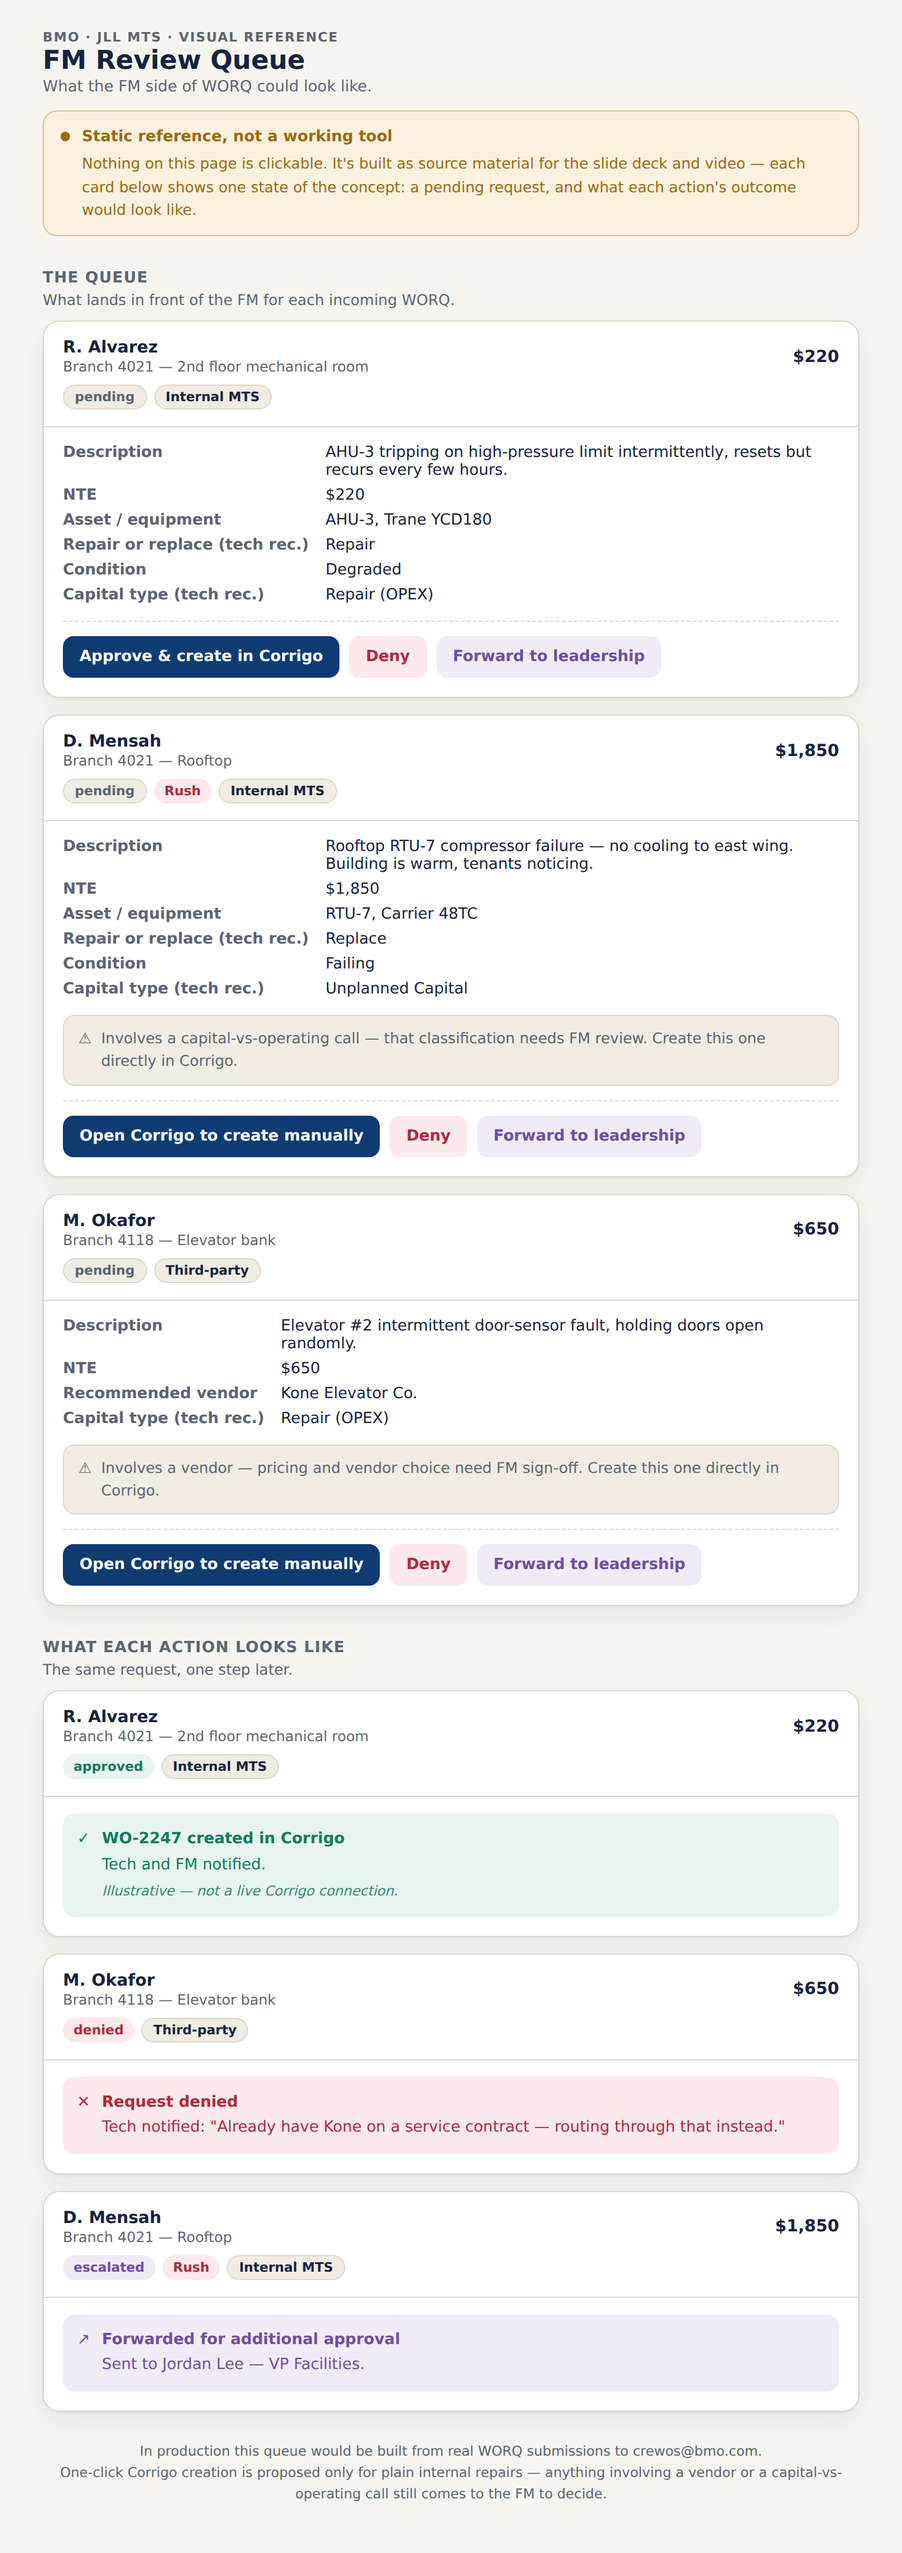
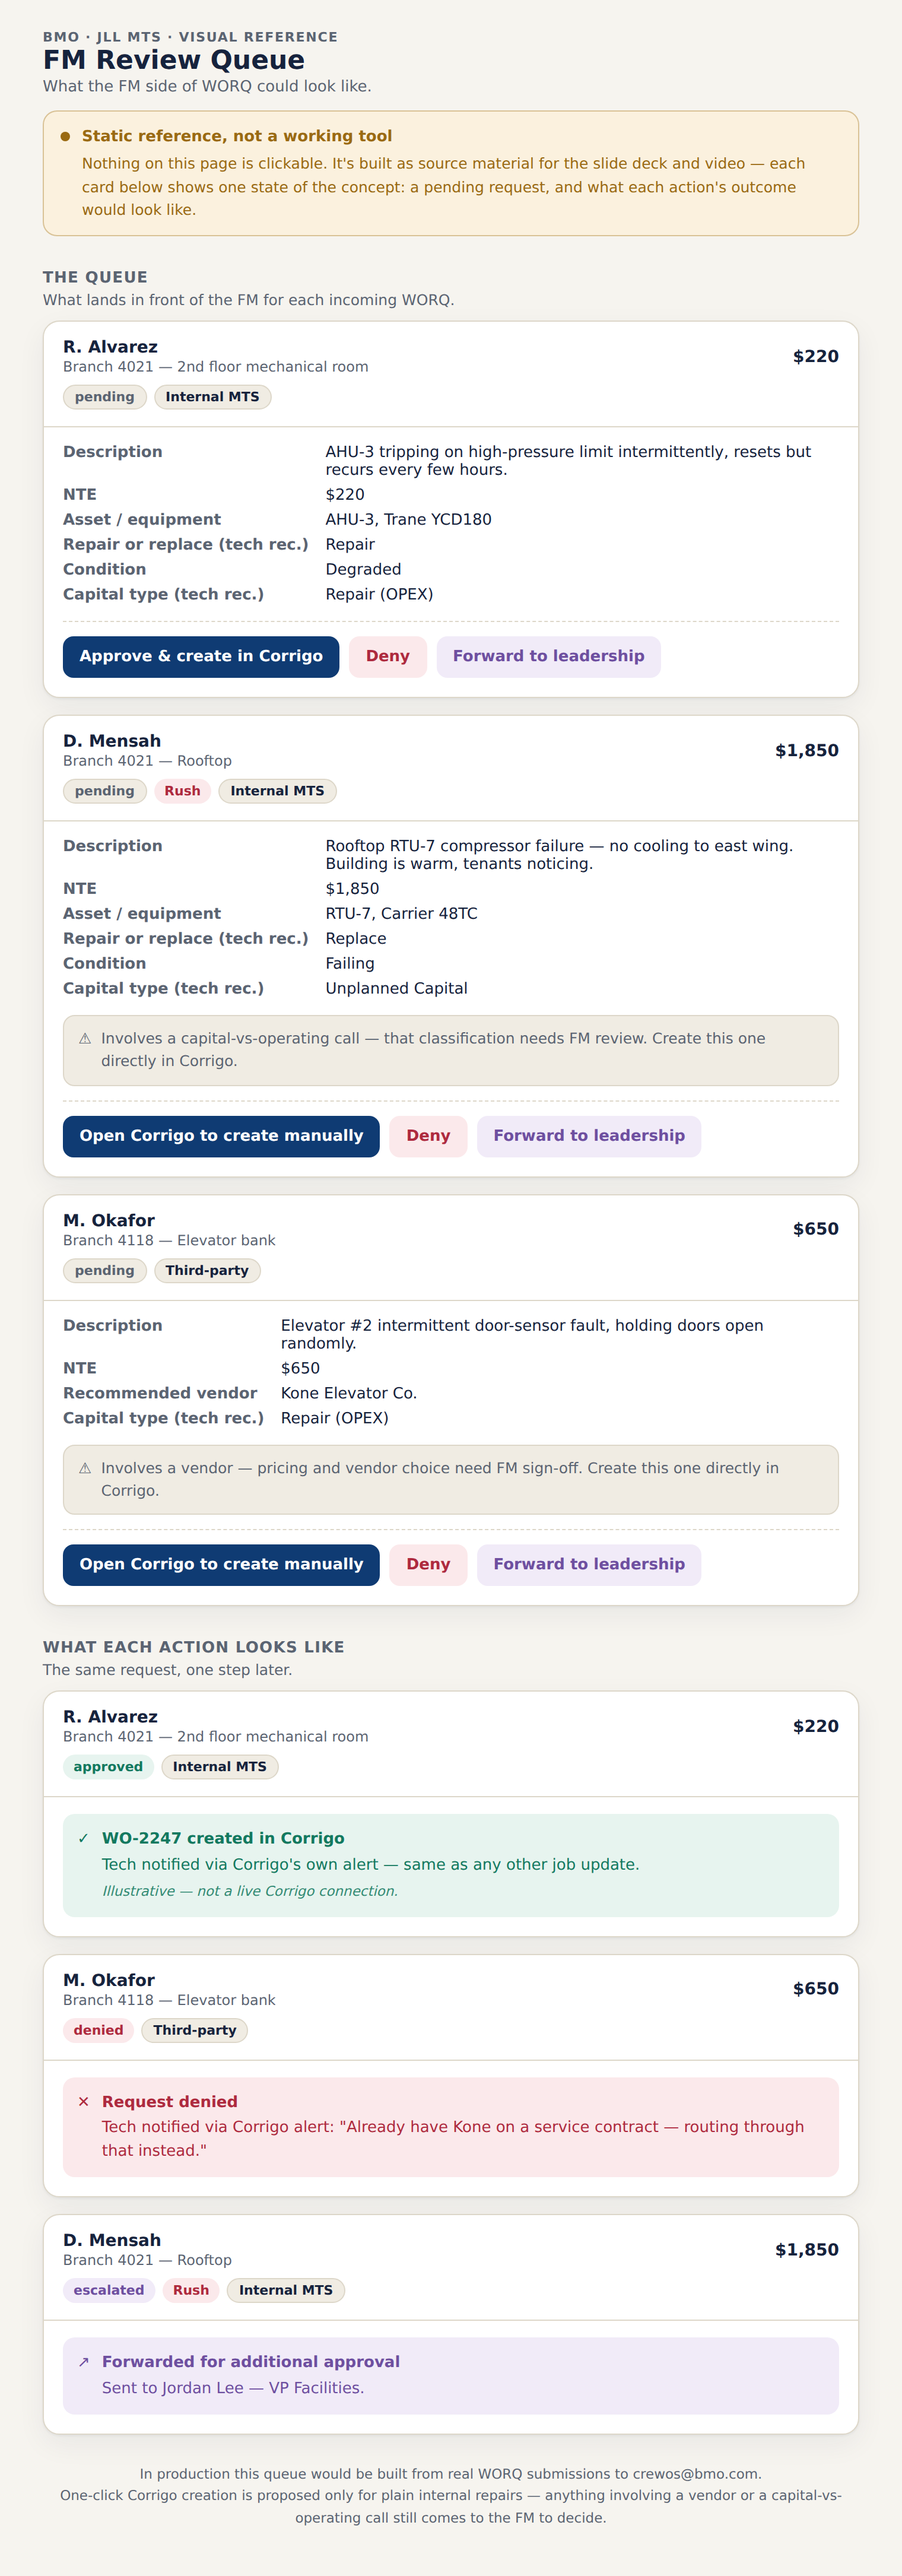
Route FM-review outcomes through Corrigo's own alerts, not a new one
Corrigo Enterprise already has a documented Alerts/Notifications
system, and CorrigoPro (the contractor portal) has CruChats — in-app
messaging logged against the work order. Rather than building a
separate way to tell a tech their WORQ was approved/denied/forwarded,
that should route through Corrigo's existing alerting, same as any
other job update.

Documented in CORRIGO-INTEGRATION.md, including the honest caveat
that CruChats is confirmed for CorrigoPro (third-party/vendor side)
specifically — whether internal MTS techs get an equivalent in core
Enterprise needs confirming with the Corrigo admin. Updated the
FM Review Queue demo's outcome copy to say "via Corrigo alert"
instead of a vague "notified," and regenerated the affected
screenshots.

Claude-Session: https://claude.ai/code/session_01K6DEAjWhhWQxyY4hHhko4Z

diff --git a/app/fm-review-demo.html b/app/fm-review-demo.html
@@ -252,7 +252,7 @@
   <div class="card-body">
     <div class="outcome approved">
       <span>✓</span>
-      <div><strong>WO-2247 created in Corrigo</strong>Tech and FM notified.<span class="fine">Illustrative — not a live Corrigo connection.</span></div>
+      <div><strong>WO-2247 created in Corrigo</strong>Tech notified via Corrigo's own alert — same as any other job update.<span class="fine">Illustrative — not a live Corrigo connection.</span></div>
     </div>
   </div>
 </div>
@@ -268,7 +268,7 @@
   <div class="card-body">
     <div class="outcome denied">
       <span>✕</span>
-      <div><strong>Request denied</strong>Tech notified: "Already have Kone on a service contract — routing through that instead."</div>
+      <div><strong>Request denied</strong>Tech notified via Corrigo alert: "Already have Kone on a service contract — routing through that instead."</div>
     </div>
   </div>
 </div>

diff --git a/docs/CORRIGO-INTEGRATION.md b/docs/CORRIGO-INTEGRATION.md
@@ -50,6 +50,14 @@ The next piece being designed (not built yet) is the FM side: when a WORQ email 
 2. **Scope of what's automated.** Per direction from this project: only a straightforward Internal MTS repair (no vendor, no capital-vs-operating judgment call) is a candidate for one-click creation. Anything involving a third-party vendor or a capital/operating expense classification stays a manual decision for the FM — the prototype reflects this split.
 3. **Where the approve/deny/forward queue lives and how it's populated** — e.g. does it read the shared inbox directly (needs Microsoft 365/Google Workspace API access, depending on how `crewos@bmo.com` is hosted), or does the WORQ Intake app submit to a small backend that both feeds this queue and eventually calls Corrigo. Either way this is real infrastructure (a backend + database), not a static page like the intake tool.
 
+## Closing the loop back to the tech: use Corrigo's own alerts, don't build new ones
+
+Corrigo Enterprise already has a documented **Alerts/Notifications** system, and the CorrigoPro contractor portal has **CruChats** — in-app messaging tied directly to the work order, logged there as part of its audit trail, replacing phone/email tag for job coordination. That changes the plan for how a tech finds out their WORQ was approved, denied, or forwarded:
+
+- **Don't build a separate notification path.** Once a work order exists in Corrigo (created via the one-click flow above, or manually), status changes and messages should go through Corrigo's own alerting — the same way a tech already gets notified about any other job. That's one notification system for the tech to watch, not two.
+- **CruChats is confirmed for CorrigoPro** (the third-party/vendor-facing portal) specifically. Whether an equivalent exists for internal MTS techs inside core Corrigo Enterprise — not just contractors bidding jobs — is worth confirming with your Corrigo admin. If it's contractor-only, it's still directly relevant to the "Third-party" / Recommended Vendor path in the WORQ form, even if internal repairs rely on the general Alerts/Notifications feature instead.
+- **Same dependency as everything else here:** triggering a Corrigo alert or CruChat message programmatically from an approve/deny/forward action still needs the Corrigo API credentials mentioned above. Nothing about this changes the "what do we need first" list — it changes what we build once we have it: route outcomes into Corrigo's own alerts rather than inventing an email or SMS system alongside it.
+
 ## Where the source lives
 
 Repo: `solmasta/WORQ`. Tech intake tool at `app/index.html`, FM review prototype at `app/fm-review-demo.html`. GitHub Pages here rebuilds automatically on every push to `main` (repo default "deploy from branch" setting) — the URLs above never change across updates.
